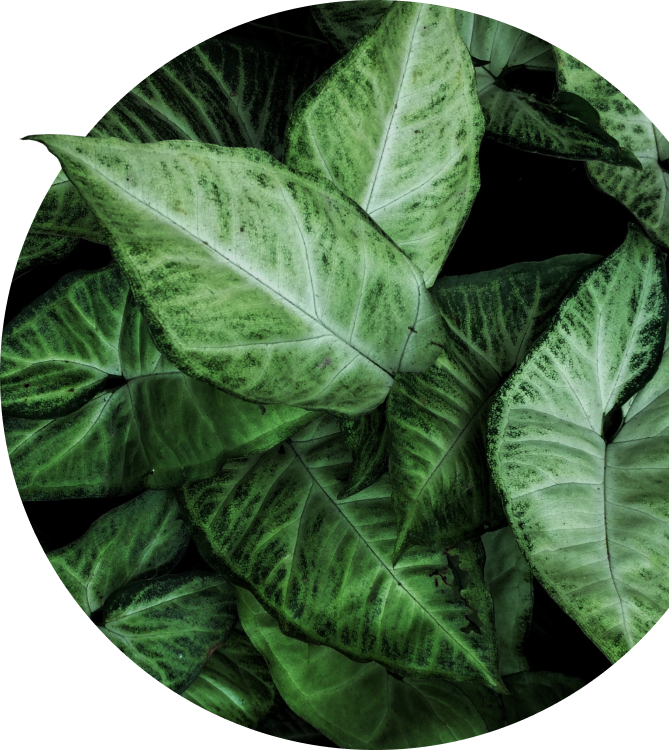
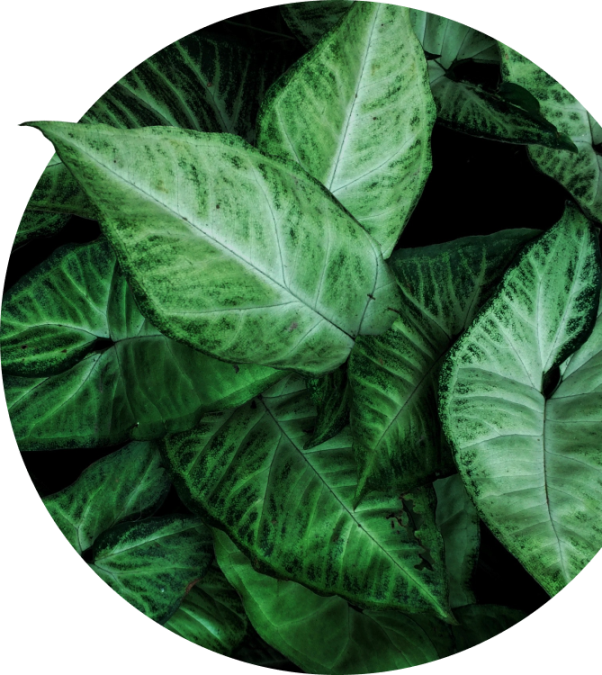
update img

diff --git a/index.html b/index.html
@@ -59,7 +59,7 @@
     <section class="main" id="main">
         <div class="container-content">
             <img src="img/leaves-right.png" class="position-absolute img-fluid leaves-right" alt="">
-            <div class="jumbotron jumbotron-fluid bg-transparent">
+            <div class="jumbotron jumbotron-fluid bg-transparent main-jumbotron">
                 <h1 class="portal-title">EcoLife Community</h1>
                 <h2 class="portal-type">Інформаційний портал</h2>
                 <a class="btn btn-success btn-message" href="#" role="button">Залишити звернення</a>
@@ -67,7 +67,7 @@
 
             <img src="img/leaves-left.png" class="position-absolute img-fluid leaves-left" alt="">
             <div class="row justify-content-end main-block-content row-cols-1 row-cols-sm-2">
-                <div class="col-md-6 col-sm-12">
+                <div class="col-md-8 col-sm-12">
                     <p class="main-content">Наш портал призначений для вирішення існуючих нагальних проблем будь-якої територіальної одиниці України. За допомогою інформаційного порталу EcoLife Community будь-який громадянин України може винести для обговорення та подальшого вирішення проблему, що стосується регіону, 
                         де він проживає. При цьому відповідна інформація буде передана в компетентні державні органи для обробки і надання допомоги у вирішенні проблеми.</p>
                     <p class="main-content">На інформаційному порталі EcoLife Community також акумулюється різні показники, що характеризують екологічну обстановку в конкретному регіоні України: показники забрудненості повітря, водних 

diff --git a/css/style.css b/css/style.css
@@ -81,11 +81,14 @@ body {
 .leaves-right {
 	margin-top: 10px;
 	right: 0;
-	width: 45%;
+	-width: 45%;
 }
 .leaves-left {
 	left: 0;
-	width: 35%;
+	width: 30%;
+}
+.main-jumbotron {
+	margin-bottom: 110px;
 }
 .row {
 	margin-left: 0;
@@ -123,7 +126,7 @@ body {
 	background: #4B853E;
 }
 .main-block-content {
-	margin-top: 100px;
+	margin-top: 130px;
 }
 .main-content {
 	font-family: Raleway;
